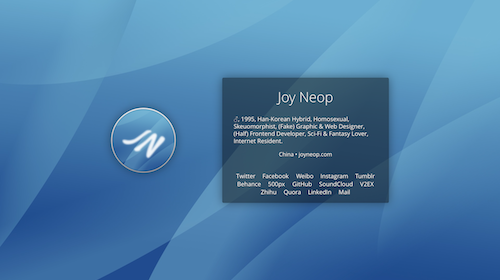
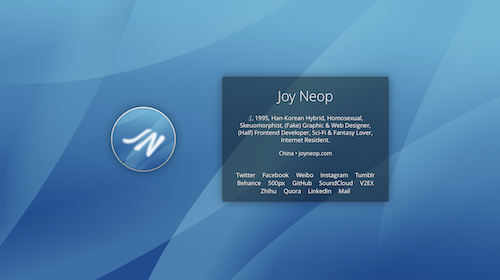
`text-align: center` for lab 2013#5 & 2013#7

diff --git a/lab/2013/5/index.html b/lab/2013/5/index.html
@@ -1,26 +1,21 @@
-<!-- Version 1.1.3 -->
+
 <!DOCTYPE html>
 <html>
 <head>
 	<meta charset="utf-8"/>
 	<title>Joy Neop</title>
-	<link rel="shortcut icon favicon" href="http://joyneop.github.io/favicon.ico"/>
-	<link rel="apple-touch-icon" href="http://joyneop.github.io/joyneop.png"/>
+	<link rel="shortcut icon favicon" href="/favicon.ico"/>
+	<link rel="apple-touch-icon" href="/joyneop.png"/>
 	<style>
 	@import url(http://fonts.googleapis.com/css?family=Open+Sans:400,300);
-	* {
-		font-family: Myriad Pro, Myriad Apple, Myriad, Myriad Set, 'Open Sans', Helvetica Neue, Helvetica, Arial, sans-serif;
-		text-shadow: 0 1px 2px rgba(0, 0, 0, 0.6);
-		-webkit-transition: all 100ms ease;
-		-moz-transition: all 100ms ease;
-		transition: all 100ms ease;
-	}
 	body {
+		font-family: Myriad Pro, Myriad Apple, Myriad, Myriad Set, 'Open Sans', Helvetica Neue, Helvetica, Arial, sans-serif;
+		color: #FFF;
+		text-shadow: 0 1px 2px rgba(0, 0, 0, 0.6);
 		overflow: hidden;
 		margin: 0 0 0 0;
 		background: #2B6CA3 url(http://joyneop.github.io/JN-Lab/other-images/glow.jpg) center fixed no-repeat;
 		background-size: cover;
-		color: #FFF;
 	}
 	@media screen and (min-width: 1920px) {
 		body {
@@ -33,7 +28,7 @@
 	a, a:link, a:visited {
 		text-decoration: none;
 	}
-	.area a:hover {
+	.area footer a:hover, #links a:hover, .area footer a:active, #links a:active {
 		text-decoration: underline;
 	}
 	h1 a:hover, h1 a:active {
@@ -48,6 +43,7 @@
 		font-weight: 400;
 		font-size: 17px;
 		line-height: 21px;
+		text-align: center;
 		padding-left: 8px;
 		padding-right: 8px;
 	}
@@ -137,7 +133,7 @@
 				<footer>
 					China • <a href="http://www.joyneop.com/">joyneop.com</a>
 				</footer>
-			</div> <!-- .area -->
+			</div>
 			<div id="links" class="area">
 				<ul>
 					<li>
@@ -183,9 +179,9 @@
 						<a href="mailto:i@joyneop.com" target="_blank" rel="nofollow">Mail</a>
 					</li>
 				</ul>
-			</div> <!-- .area -->
-		</div> <!-- #box -->
-	</div> <!-- #cont -->
+			</div>
+		</div>
+	</div>
 	<script>
   		(function(i,s,o,g,r,a,m){i['GoogleAnalyticsObject']=r;i[r]=i[r]||function(){
   		(i[r].q=i[r].q||[]).push(arguments)},i[r].l=1*new Date();a=s.createElement(o),

diff --git a/lab/2014/2/index.html b/lab/2014/2/index.html
@@ -3,8 +3,8 @@
 <head>
 	<meta charset="utf-8" />
 	<title>Joy Neop — Desigrammer, Freelancer, Cross-domain Creative.</title>
-	<link rel="favicon shortcut icon" href="http://joyneop.github.io/joyneop.png">
-	<link rel="apple-touch-icon" href="http://joyneop.github.io/joyneop.png">
+	<link rel="favicon shortcut icon" href="/favicon.ico">
+	<link rel="apple-touch-icon" href="/joyneop.png">
 	<script type="text/javascript">
 	(function(){
 		console.log("I won't tell you that my blog is `http://joyneop.xyz/`");

diff --git a/index.html b/index.html
@@ -205,6 +205,7 @@
 	.box p {
 		font-size: 18px;
 		line-height: 33px;
+		text-align: center;
 		margin: 20px 0 20px 0;
 	}
 	#links-list {

diff --git a/lab/2013/7/index.html b/lab/2013/7/index.html
@@ -205,6 +205,7 @@
 	.box p {
 		font-size: 18px;
 		line-height: 33px;
+		text-align: center;
 		margin: 20px 0 20px 0;
 	}
 	#links-list {
